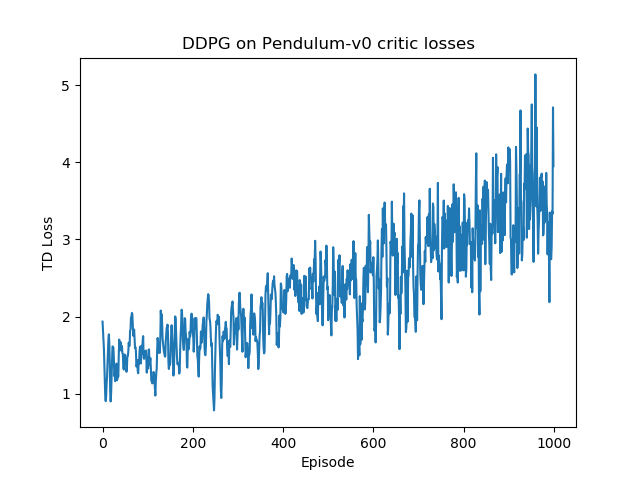
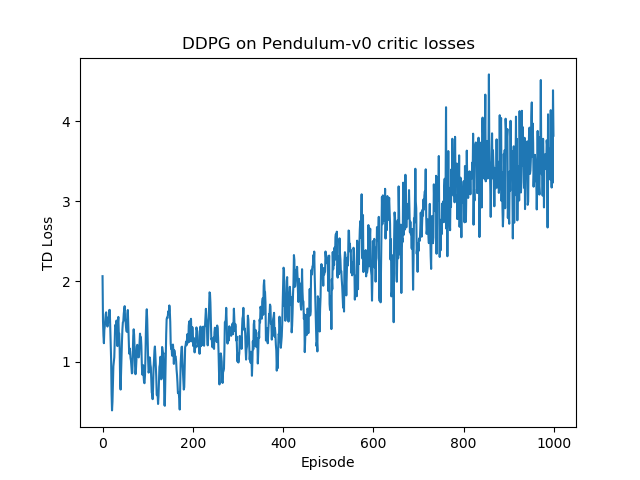
tried different layer sizes, reward curve improved but actor and critic losses don't seem to converge

diff --git a/ddpg.swift b/ddpg.swift
@@ -348,8 +348,8 @@ class ActorCritic {
         let predicted_q_values = critic_network([states, actions])
         let predicted_q_values_batch = predicted_q_values.dimensionGathering(atIndices: tfFullIndices)
 
-        let target_actions = self.target_actor_network(nextstates)
-        let next_state_q_values = withoutDerivative(at: self.target_critic_network([nextstates, target_actions]))
+        //let target_actions = self.target_actor_network(nextstates)
+        let next_state_q_values = withoutDerivative(at: self.target_critic_network([nextstates, self.target_actor_network(nextstates)]))
         let target_q_values: Tensor<Float> = rewards + self.gamma * (1 - Tensor<Float>(dones)) * next_state_q_values
         let td_error: Tensor<Float> = target_q_values - predicted_q_values_batch
         let td_loss: Tensor<Float> = 0.5*pow(td_error, 2)
@@ -361,7 +361,7 @@ class ActorCritic {
 
       let(actor_loss, actor_gradients) = valueWithGradient(at: actor_network) { actor_network -> Tensor<Float> in
           let next_actions = actor_network(states)
-          let loss: Tensor<Float> = self.critic_network([states, next_actions]).mean()
+          let loss: Tensor<Float> = -self.critic_network([states, next_actions]).mean()
           return loss.mean()
       }
       self.actor_optimizer.update(&self.actor_network, along: actor_gradients)
@@ -492,7 +492,9 @@ func evaluate_agent(agent: ActorCritic, env: TensorFlowEnvironmentWrapper, num_s
     env.originalEnv.render()
     let action = agent.get_action(state: state, epsilon: 0.0, env: env)
     let (next_state, reward, _, _) = env.step(action)
-    totalReward += reward.scalarized()
+    let scalar_reward = reward.scalarized()
+    print("\nStep Reward: \(scalar_reward)")
+    totalReward += scalar_reward
     state = next_state
   }
   env.originalEnv.close()
@@ -503,20 +505,20 @@ func evaluate_agent(agent: ActorCritic, env: TensorFlowEnvironmentWrapper, num_s
 //train actor critic on pendulum environment
 let env = TensorFlowEnvironmentWrapper(gym.make("Pendulum-v0"))
 let max_action: Float = 2.0
-let actor_net: ActorNetwork = ActorNetwork(observationSize: 3, actionSize: 1, hiddenLayerSizes: [300, 200], maximum_action:max_action)
-let actor_target: ActorNetwork = ActorNetwork(observationSize: 3, actionSize: 1, hiddenLayerSizes: [300, 200])
-let critic_net: CriticNetwork = CriticNetwork(state_size: 3, action_size: 1, hiddenLayerSizes: [300, 200], outDimension: 1)
-let critic_target: CriticNetwork = CriticNetwork(state_size: 3, action_size: 1, hiddenLayerSizes: [300, 200], outDimension: 1)
+let actor_net: ActorNetwork = ActorNetwork(observationSize: 3, actionSize: 1, hiddenLayerSizes: [64, 32], maximum_action:max_action)
+let actor_target: ActorNetwork = ActorNetwork(observationSize: 3, actionSize: 1, hiddenLayerSizes: [64, 32])
+let critic_net: CriticNetwork = CriticNetwork(state_size: 3, action_size: 1, hiddenLayerSizes: [64, 32], outDimension: 1)
+let critic_target: CriticNetwork = CriticNetwork(state_size: 3, action_size: 1, hiddenLayerSizes: [64, 32], outDimension: 1)
 let actor_critic: ActorCritic = ActorCritic(actor: actor_net,
                                             actor_target: actor_target,
                                             critic: critic_net,
                                             critic_target: critic_target,
-                                          stateSize: 3, actionSize: 1, gamma: 0.95)
+                                          stateSize: 3, actionSize: 1, gamma: 0.99)
 
 let(totalRewards, actor_losses, critic_losses)
   = ddpg(actor_critic: actor_critic,
         env: env,
-        maxEpisodes: 1000,
+        maxEpisodes: 1200,
         stepsPerEpisode: 200,
         tau: 0.001,
         epsilonStart: 0.95,
@@ -528,7 +530,7 @@ plt.plot(totalRewards)
 plt.title("DDPG on Pendulum-v0 Rewards")
 plt.xlabel("Episode")
 plt.ylabel("Total Reward")
-plt.savefig("results/pendulum-ddpgreward.png")
+plt.savefig("results/pendulum-ddpgreward-2.png")
 plt.clf()
 
 // Save smoothed learning curve
@@ -540,7 +542,7 @@ plt.plot(smoothedEpisodeReturns)
 plt.title("DDPG on Pendulum-v0 Smoothed Rewards")
 plt.xlabel("Episode")
 plt.ylabel("Smoothed Episode Reward")
-plt.savefig("results/pendulum-ddpgsmoothedreward.png")
+plt.savefig("results/pendulum-ddpgsmoothedreward-2.png")
 plt.clf()
 
 //save actor and critic losses
@@ -548,7 +550,7 @@ plt.plot(critic_losses)
 plt.title("DDPG on Pendulum-v0 critic losses")
 plt.xlabel("Episode")
 plt.ylabel("TD Loss")
-plt.savefig("results/ddpg-critic-losses.png")
+plt.savefig("results/ddpg-critic-losses-2.png")
 plt.clf()
 
 
@@ -556,5 +558,5 @@ plt.plot(actor_losses)
 plt.title("DDPG on Pendulum-v0 actor losses")
 plt.xlabel("Episode")
 plt.ylabel("Loss")
-plt.savefig("results/ddpg-actor-losses.png")
+plt.savefig("results/ddpg-actor-losses-2.png")
 plt.clf()
